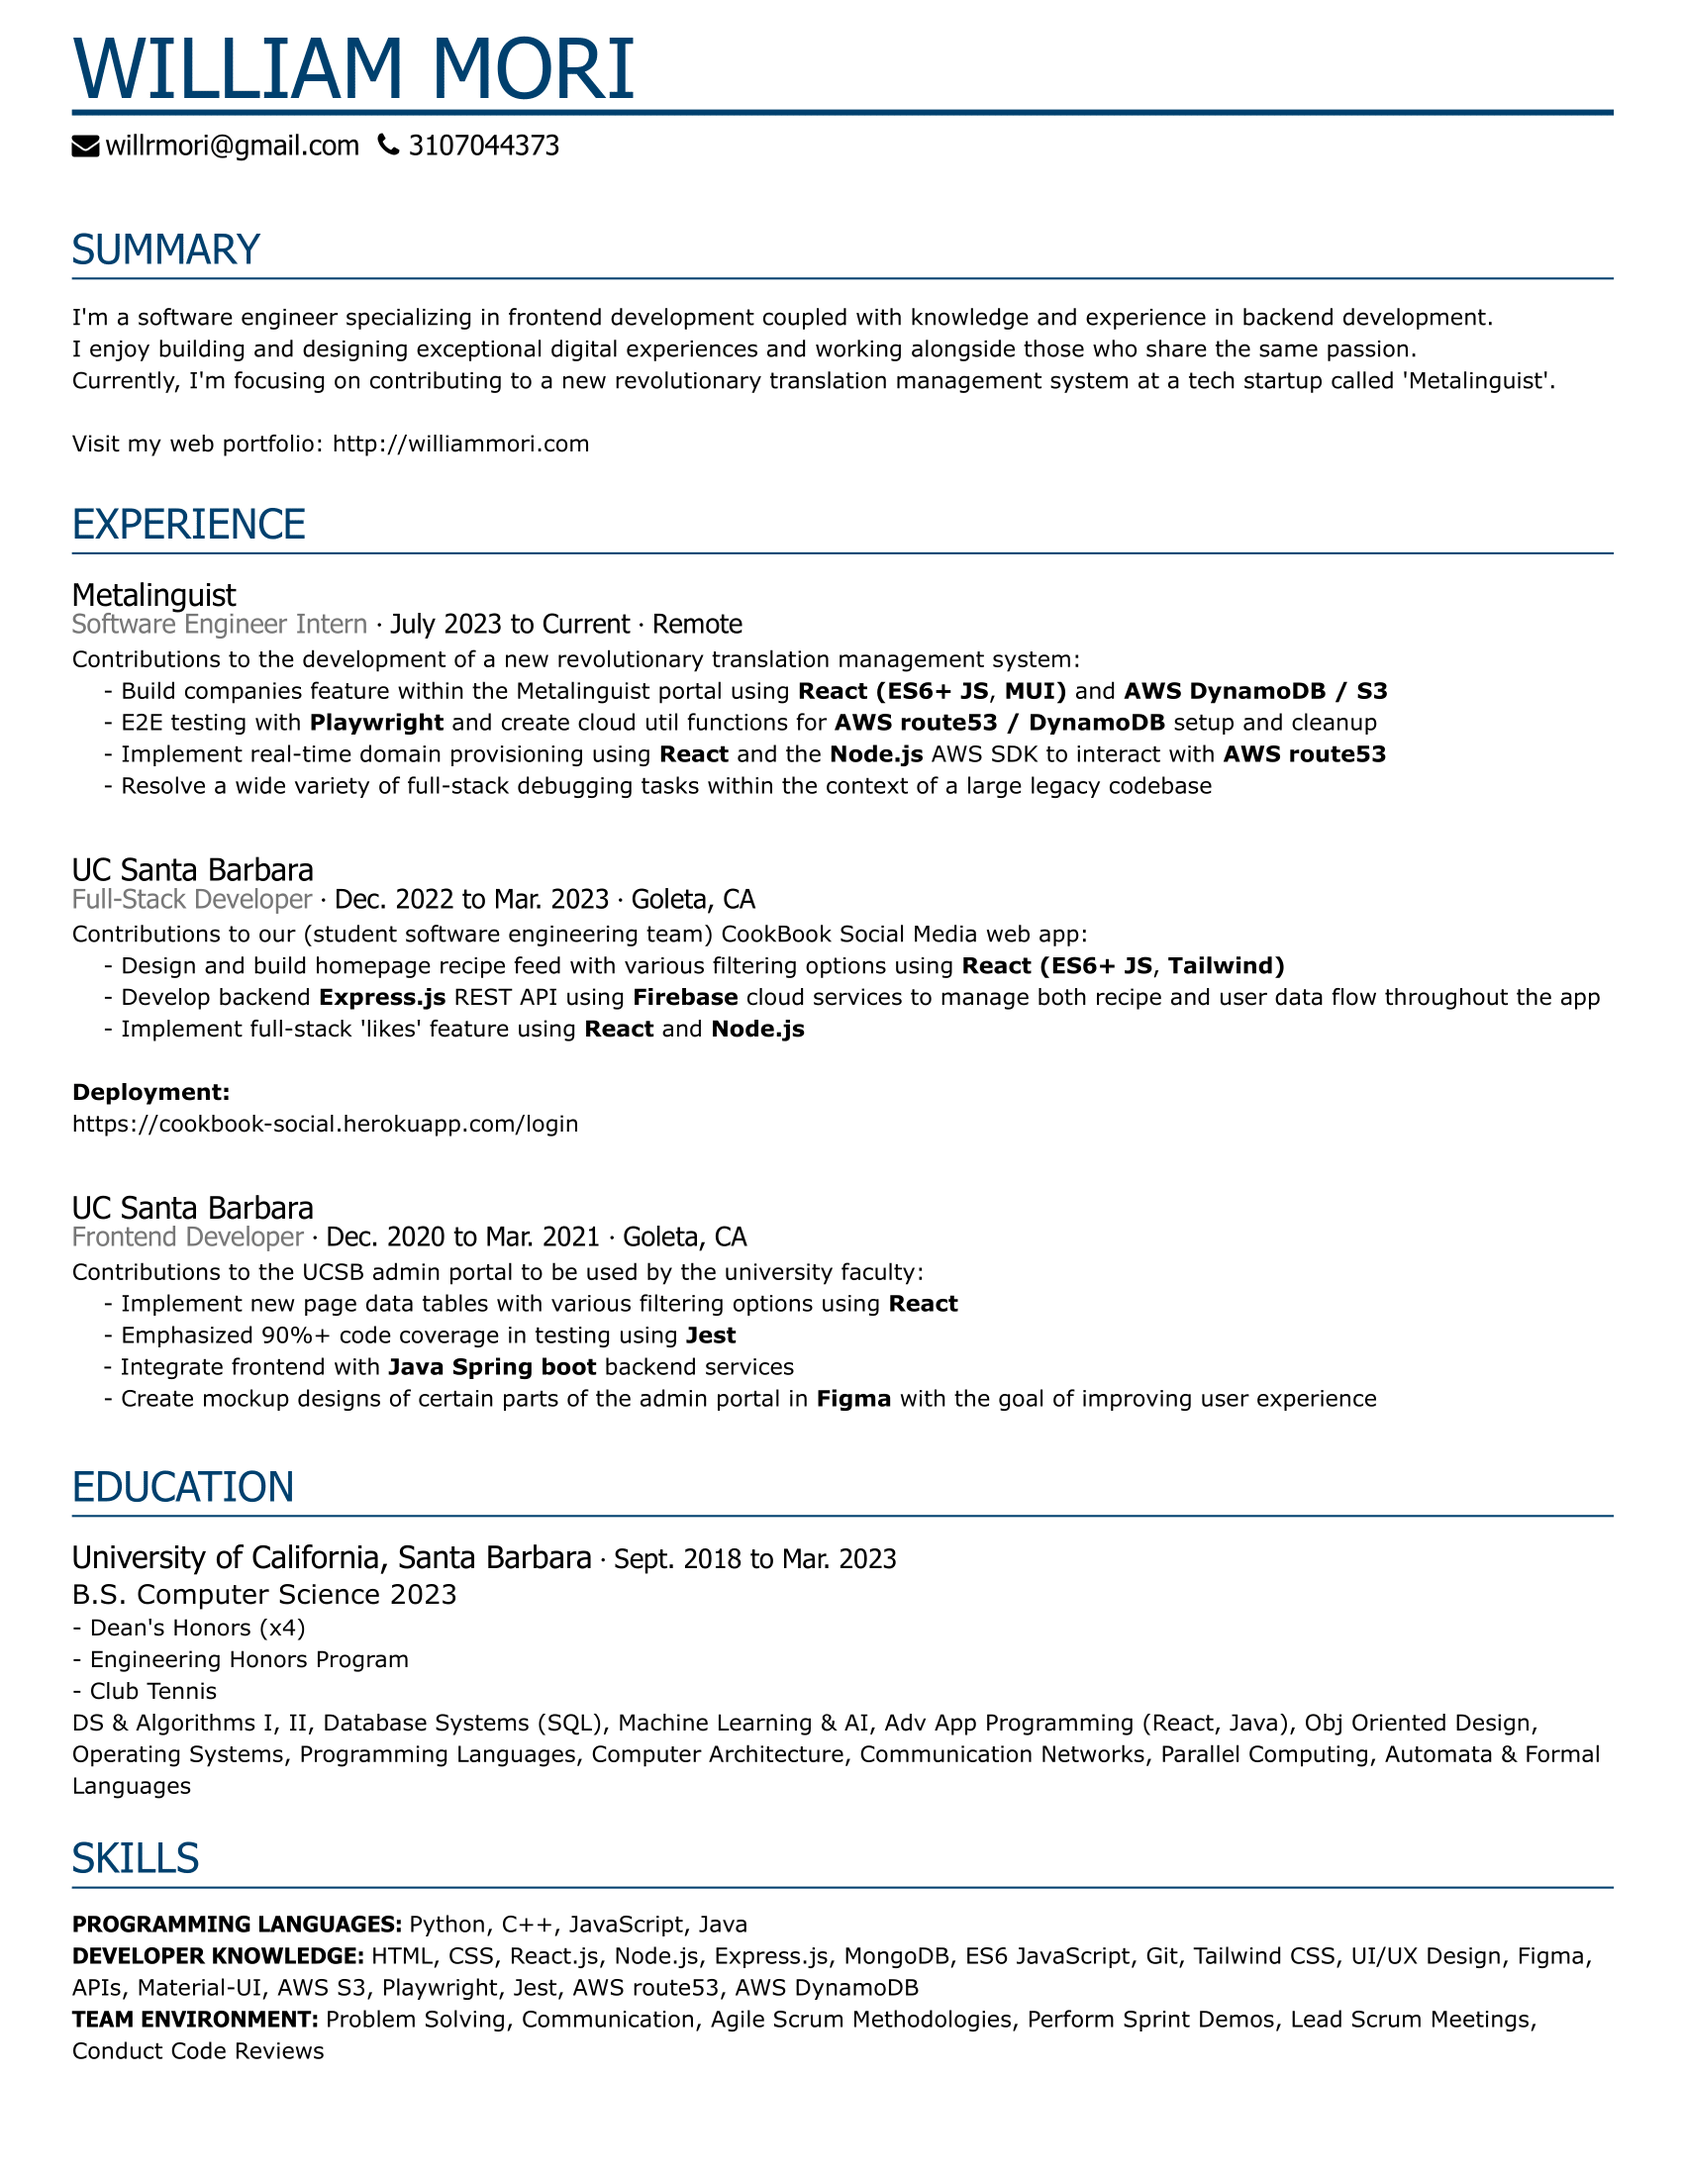
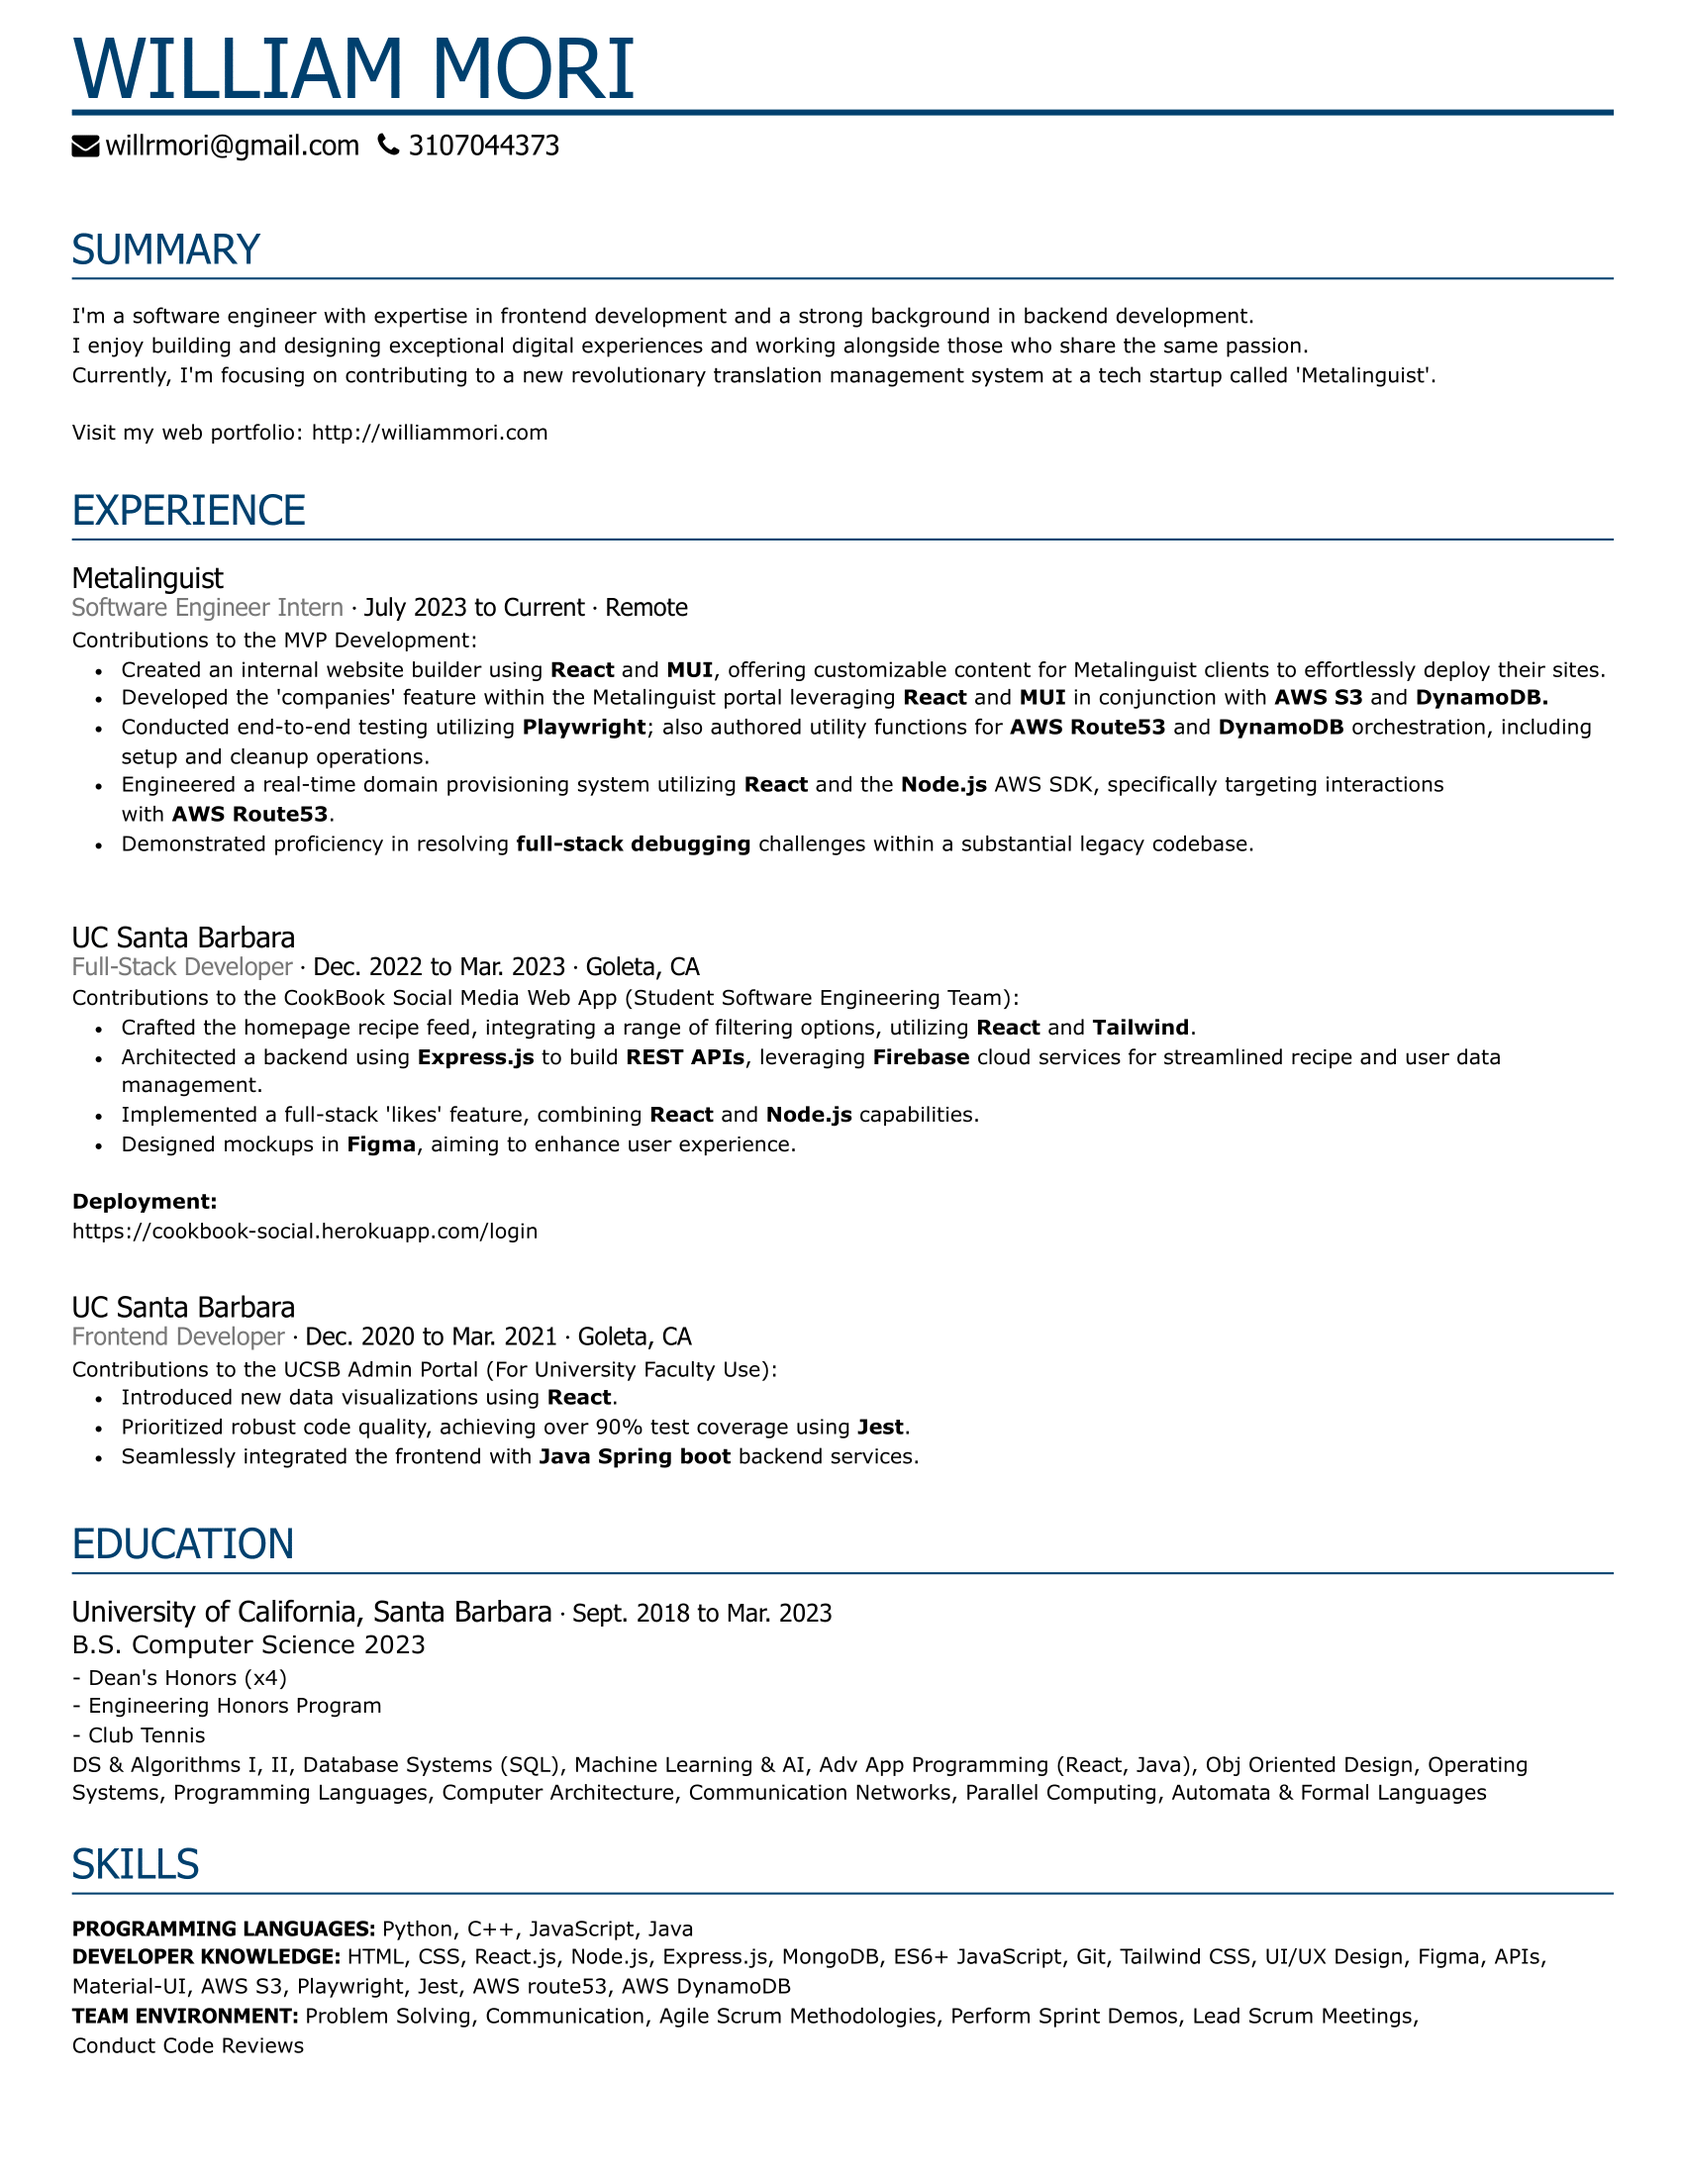
add fade up for skills section, adjust contribution content text, udpate resume

diff --git a/client/src/Content/ContributionText.js b/client/src/Content/ContributionText.js
@@ -5,35 +5,35 @@ export const ContributionText = {
     "Companies": {
         "header": "Metalinguist",
         "subHeader": "Companies Feature",
-        "details": "Build companies feature / page within the Metalinguist portal, providing a card view of existing companies with their respective data and the ability to add new companies. Implement techniques for load speed optimization and integrate with AWS S3 / DynamoDB",
+        "details": "Develop a 'Companies' section within the Metalinguist portal. This feature will display companies in a card view format, enable admins to add new companies, ensure fast load speeds via optimization techniques, and integrate seamlessly with AWS S3 and DynamoDB.",
         "tech_stack": ["React.js", "MUI", "Express.js", "S3", "DynamoDB"],
         "headerLink": "https://metalinguist.com"
     },
     "Playwright": {
         "header": "Metalinguist",
         "subHeader": "Testing Automation",
-        "details": "Setup and integration of Playwright framework for end-to-end testing. Implement test suite for the Metalinguist Onboarding flow and create cloud util functions for AWS DynamoDB / Route53 subdomain cleanup.",
+        "details": "Establish and integrate the Playwright framework for comprehensive end-to-end testing. Develop a test suite for the Metalinguist Onboarding process and formulate cloud utility functions to manage AWS Route53 subdomain cleanup and DynamoDB data.",
         "tech_stack": ["Playwright", "Route53", "DynamoDB", "Node.js"],
         "headerLink": "https://metalinguist.com"
     },
     "Provisioning": {
         "header": "Metalinguist",
         "subHeader": "Domain Provisioning",
-        "details": "Implement full-stack feature to provide real-time monitoring of new domain provisioning. Custom animated React loading bar synchronized with Route53 update status by utilizing the Node.js AWS SDK",
+        "details": "Develop a full-stack solution for real-time tracking of new domain provisioning. Integrate a custom animated React loading bar that aligns with Route53 update status, leveraging the Node.js AWS SDK.",
         "tech_stack": ["React.js", "Route53", "Node.js", "Express.js"],
         "headerLink": "https://metalinguist.com"
     },
     "CookBook_Social": {
         "header": "CookBook Social",
         "subHeader": "Full-Stack Features",
-        "details": "Design and implementation of homepage recipe feed with various filtering options. Implement 'likes' functionality / popup modal on recipe posts and develop backend Express.js REST APIs using Firebase cloud functions to manage recipe and user data flow throughout the app.",
+        "details": "Craft a homepage recipe feed featuring diverse filtering capabilities. Introduce a full-stack 'likes' feature. Develop backend REST APIs in Express.js, utilizing Firebase cloud services, to streamline recipe and user data interactions across the app.",
         "tech_stack": ["React.js", "Tailwind", "Node.js", "Express.js", "Firebase"],
         "headerLink": "https://cookbook-social.herokuapp.com/login"
     },
     "Tide_Together": {
         "header": "Tide Together",
         "subHeader": "Digital Design",
-        "details": "Design digital prototype of our team's mobile social media app 'Tide Together' using Figma. Multiple mockup versions with a focus on user experience / Human Computer Interaction efficiency.",
+        "details": "Design a digital prototype for our team's 'Tide Together' mobile social media app using Figma. Produce various mockups with an emphasis on user experience and efficient Human Computer Interaction.",
         "tech_stack": ["Figma", "UI/UX", "HCI"],
         "headerLink": "https://cs.ucsb.edu/education/courses/course-descriptions/human-computer-interaction"
     },

diff --git a/client/src/Pages/Skills.jsx b/client/src/Pages/Skills.jsx
@@ -2,6 +2,7 @@ import React, {useState, useEffect} from 'react';
 import { Button, Grid, Container, Typography, List, ListItem, ListItemText, Paper } from '@mui/material';
 import { useTheme } from '@mui/material';
 import { useMediaQuery } from '@mui/material';
+import { useInView } from 'react-intersection-observer';
 import SkillTile from '../Components/SkillTile';
 import ReactLogo from '../assets/React.png';
 import MUILogo from '../assets/MUI.png';
@@ -18,10 +19,14 @@ const Skills = () => {
     const isSmallTablet = useMediaQuery((theme) => theme.breakpoints.down('sm'));
     const isTabletScreen = useMediaQuery((theme) => theme.breakpoints.down('md'));
  
+    const [ref, inView] = useInView({
+        triggerOnce: false, // Trigger only once
+        threshold: 0.3, // Percentage of component visibility to trigger
+    });
 
     return (
         <div id="skills" style={{marginTop: !isTabletScreen ? '280px' : '50px'}}>
-            <Container style={{display: 'flex', justifyContent: 'center', alignItems: 'center', marginBottom: '30px'}}>
+            <Container ref={ref} className={`fade-in-up ${inView ? 'is-visible' : ''}`} style={{display: 'flex', justifyContent: 'center', alignItems: 'center', marginBottom: '30px'}}>
                 <Typography variant="h5" style={{color: theme.palette.primary.textPrimary}}>02.&nbsp;&nbsp;</Typography>
                 {isSmallTablet ? <Typography sx={{ fontSize: '30px', fontWeight: 'bold' }} style={{color: 'rgb(210, 215, 240)'}}>Skills</Typography>
                 : <Typography sx={{ fontSize: '30px', fontWeight: 'bold' }} style={{color: 'rgb(210, 215, 240)'}}>Technical Skills</Typography>}
@@ -33,8 +38,8 @@ const Skills = () => {
                     <Grid style={{marginBottom: '40px'}} item xs={12} sm={6} md={3} lg={3} xl={3}>{<SkillTile logo={ReactLogo} width={'180px'} height={'auto'} />}</Grid>
                     <Grid style={{marginBottom: '40px'}} item xs={12} sm={6} md={3} lg={3} xl={3}>{<SkillTile logo={MUILogo} width={'auto'} height={'70px'} type={'mui'} />}</Grid>
                     <Grid style={{marginBottom: '40px'}} item xs={12} sm={6} md={3} lg={3} xl={3}>{<SkillTile logo={NodeLogo} width={'215px'} height={'auto'} />}</Grid>
-                    <Grid style={{marginBottom: '40px'}} item xs={12} sm={6} md={3} lg={3} xl={3}>{<SkillTile logo={ExpressLogo} width={'180px'} height={'auto'} />}</Grid>
-                    <Grid style={{marginBottom: '40px'}} item xs={12} sm={6} md={3} lg={3} xl={3}>{<SkillTile logo={JavaScriptLogo} width={'auto'} height={'70px'} type={'javascript'} />}</Grid>
+                    <Grid style={{marginBottom: '40px'}} item xs={12} sm={6} md={3} lg={3} xl={3}>{<SkillTile logo={ExpressLogo} width={'190px'} height={'auto'} />}</Grid>
+                    <Grid style={{marginBottom: '40px'}} item xs={12} sm={6} md={3} lg={3} xl={3}>{<SkillTile logo={JavaScriptLogo} width={'auto'} height={'60px'} type={'javascript'} />}</Grid>
                     <Grid style={{marginBottom: '40px'}} item xs={12} sm={6} md={3} lg={3} xl={3}>{<SkillTile logo={PythonLogo} width={'180px'} height={'auto'} />}</Grid>
                     <Grid style={{marginBottom: '40px'}} item xs={12} sm={6} md={3} lg={3} xl={3}>{<SkillTile logo={CLogo} width={'120px'} height={'auto'} />}</Grid>
                     <Grid style={{marginBottom: '40px'}} item xs={12} sm={6} md={3} lg={3} xl={3}>{<SkillTile logo={SQLLogo} width={'120px'} height={'auto'} />}</Grid>

diff --git a/client/src/Components/SkillTile.jsx b/client/src/Components/SkillTile.jsx
@@ -1,16 +1,19 @@
 import React from "react";
 import { Typography, useTheme } from '@mui/material';
+import { useInView } from 'react-intersection-observer';
 
 function SkillTile({ logo, width, height, type }) { 
 
     const theme = useTheme();
 
-    console.log(width)
-    console.log(height)
+    const [ref, inView] = useInView({
+        triggerOnce: false, // Trigger only once
+        threshold: 0.2, // Percentage of component visibility to trigger
+    });
 
     return (
         <div>
-            <div style={{ width: '220px', height: '220px', display: 'flex', flexDirection: 'column', 
+            <div ref={ref} className={`fade-in-up ${inView ? 'is-visible' : ''}`} style={{ width: '220px', height: '220px', display: 'flex', flexDirection: 'column', 
                         justifyContent: 'center', alignItems: 'center', borderRadius: '15px', position: 'relative',}}>
                 <div style={{
                         position: 'absolute',

diff --git a/client/src/Components/Contribution.jsx b/client/src/Components/Contribution.jsx
@@ -28,7 +28,7 @@ const Contribution = ({ name, placement }) => {
     const [ref, inView] = useInView({
         triggerOnce: false, // Trigger only once
         threshold: 0.2, // Percentage of component visibility to trigger
-      });
+    });
 
     function getVideoSource() {
         switch(name) {

diff --git a/client/src/Pages/Gallery.jsx b/client/src/Pages/Gallery.jsx
@@ -18,7 +18,7 @@ const Gallery = () => {
     const [ref, inView] = useInView({
         triggerOnce: false, // Trigger only once
         threshold: 0.3, // Percentage of component visibility to trigger
-      });
+    });
  
     return (
         <React.Fragment>
